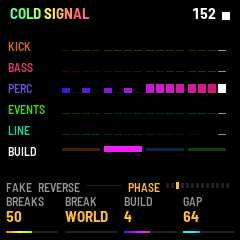
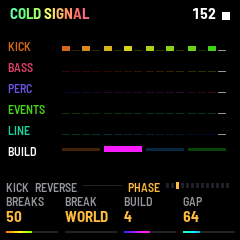
Builds: HALF, ACID, STAIRS, GATE (each world leaning on them its own way)

diff --git a/app/dsp/psy.c b/app/dsp/psy.c
@@ -49,7 +49,7 @@ typedef struct {
     uint8_t trip;                      /* % of phrases with a bar of sixteenth triplets (K-b-b-b-b-b): its 4th or 8th */
     uint8_t gallop, off;               /* % of phrases in a gallop, an offbeat */
     uint8_t bk[PS_NBUILD - 1];         /* the builds' leaning (AUTO): ROLL, KICK, FILTER, TRIPLET, STUTTER, POLY, SINK,
-                                        * FAKE, out of their sum */
+                                        * FAKE, HALF, ACID, STAIRS, GATE, out of their sum */
     uint8_t skip, jump;                /* % of notes resting (a stutter), jumping (an octave or a fifth up) */
     float ratio;                       /* the bass's modulator to carrier */
     float index, index_ms;             /* the modulation at the note's start, and how fast it falls (ms to 1/e) */
@@ -84,56 +84,56 @@ typedef struct {
 /* the eight worlds, slow and wet to fast and fine (notes/psytrance.md 6) */
 static const world_t W[PS_NWORLD] = {
     /* low and muffled, a soft stuttering bass, wet clicks, a thick murmur */
-    {.name = "SWAMP RADIO", .bpm = 145, .root = 29, .gallop = 20, .off = 15, .bk = {25, 15, 30, 5, 10, 5, 10, 10}, .skip = 9,
+    {.name = "SWAMP RADIO", .bpm = 145, .root = 29, .gallop = 20, .off = 15, .bk = {25, 15, 30, 5, 10, 5, 10, 10, 15, 15, 5, 5}, .skip = 9,
      .ratio = 1.0f, .index = 1.8f, .index_ms = 22, .floor = 0.2f, .gate = 0.82f, .drive = 1.1f, .kick_len = 1.0f, .kick_bright = 0.5f,
      .hat_ms = 18, .open_ms = 70, .hat_hp = 0.70f, .clap_hz = 900,
      .ev_density = 6, .ev_low = 35, .ev_mid = 45, .ev_runs = 10, .atmos = 0.8f, .brk = 16,
      .line = 0.1f, .line_dens = 0.25f, .line_oct = 24, .line_range = 7, .line_chrom = 30, .line_slide = 30,
      .line_ratio = 1.0f, .line_index = 1.5f, .line_ms = 60, .line_gate = 0.6f, .line_wah = 0.3f},
     /* deep and long, a thick low bass, a growl now and then, sinking sounds, a dark swell; long breaks */
-    {.name = "UNDER THE ROOTS", .bpm = 148, .root = 28, .gallop = 15, .off = 15, .bk = {25, 15, 30, 5, 10, 5, 10, 10},
+    {.name = "UNDER THE ROOTS", .bpm = 148, .root = 28, .gallop = 15, .off = 15, .bk = {25, 15, 30, 5, 10, 5, 10, 10, 15, 15, 5, 5},
      .ratio = 0.5f, .index = 2.6f, .index_ms = 18, .floor = 0.3f, .gate = 0.8f, .drive = 1.5f, .kick_len = 1.0f, .kick_bright = 0.7f,
      .hat_ms = 14, .open_ms = 60, .hat_hp = 0.78f, .clap_hz = 1000,
      .ev_density = 4, .ev_low = 55, .ev_mid = 30, .ev_runs = 10, .atmos = 0.55f, .brk = 24,
      .line = 0.35f, .line_dens = 0.3f, .line_oct = 12, .line_range = 5, .line_chrom = 50, .line_slide = 50,
      .line_ratio = 1.5f, .line_index = 3.0f, .line_ms = 120, .line_gate = 0.9f, .line_wah = 0.2f},
     /* cold dark psy: hard, short sixteenths, a short phrase creeping in semitones, lasers, a thin band of noise */
-    {.name = "COLD SIGNAL", .bpm = 152, .root = 30, .gallop = 15, .off = 10, .bk = {25, 25, 20, 5, 10, 10, 5, 10},
+    {.name = "COLD SIGNAL", .bpm = 152, .root = 30, .gallop = 15, .off = 10, .bk = {25, 25, 20, 5, 10, 10, 5, 10, 10, 10, 10, 10},
      .ratio = 1.0f, .index = 3.2f, .index_ms = 14, .floor = 0.35f, .gate = 0.72f, .drive = 1.6f, .kick_len = 0.95f, .kick_bright = 1.0f,
      .hat_ms = 14, .open_ms = 55, .hat_hp = 0.80f, .clap_hz = 1100,
      .ev_density = 5, .ev_low = 30, .ev_mid = 55, .ev_runs = 15, .atmos = 0.2f, .brk = 16,
      .line = 0.6f, .line_dens = 0.35f, .line_oct = 24, .line_range = 4, .line_chrom = 70, .line_slide = 10,
      .line_ratio = 3.0f, .line_index = 2.5f, .line_ms = 25, .line_gate = 0.45f},
     /* bouncing: the bass jumps now and then, a talking FM line, gurgles; sudden turns */
-    {.name = "RUBBER CIRCUS", .bpm = 156, .root = 31, .trip = 25, .gallop = 25, .off = 10, .bk = {20, 20, 15, 20, 10, 15, 5, 10}, .jump = 12,
+    {.name = "RUBBER CIRCUS", .bpm = 156, .root = 31, .trip = 25, .gallop = 25, .off = 10, .bk = {20, 20, 15, 20, 10, 15, 5, 10, 10, 15, 15, 10}, .jump = 12,
      .ratio = 1.0f, .index = 3.0f, .index_ms = 16, .floor = 0.3f, .gate = 0.6f, .drive = 1.4f, .kick_len = 0.9f, .kick_bright = 1.2f,
      .hat_ms = 12, .open_ms = 50, .hat_hp = 0.82f, .clap_hz = 1300,
      .ev_density = 7, .ev_low = 20, .ev_mid = 60, .ev_runs = 20, .atmos = 0.1f, .brk = 8,
      .line = 0.7f, .line_dens = 0.45f, .line_oct = 24, .line_range = 9, .line_chrom = 20, .line_slide = 35,
      .line_ratio = 1.0f, .line_index = 4.0f, .line_ms = 40, .line_gate = 0.6f, .line_wah = 0.8f},
     /* heavy, a distorted bass, a long dragging phrase, groans; big breaks */
-    {.name = "BLACK UNDERTOW", .bpm = 160, .root = 28, .gallop = 15, .off = 10, .bk = {25, 25, 20, 5, 10, 5, 10, 10},
+    {.name = "BLACK UNDERTOW", .bpm = 160, .root = 28, .gallop = 15, .off = 10, .bk = {25, 25, 20, 5, 10, 5, 10, 10, 15, 15, 5, 10},
      .ratio = 1.0f, .index = 3.6f, .index_ms = 20, .floor = 0.45f, .gate = 0.75f, .drive = 2.2f, .kick_len = 1.0f, .kick_bright = 1.1f,
      .hat_ms = 14, .open_ms = 55, .hat_hp = 0.78f, .clap_hz = 1000,
      .ev_density = 9, .ev_low = 50, .ev_mid = 35, .ev_runs = 15, .atmos = 0.25f, .brk = 16,
      .line = 0.6f, .line_dens = 0.25f, .line_oct = 12, .line_range = 6, .line_chrom = 50, .line_slide = 60,
      .line_ratio = 2.0f, .line_index = 3.5f, .line_ms = 200, .line_gate = 1.0f, .line_wah = 0.1f},
     /* tight, a short metallic repeat, the staircases begin; now and then a bar of triplets */
-    {.name = "COPPER NERVE", .bpm = 168, .root = 29, .trip = 40, .gallop = 15, .off = 5, .bk = {20, 20, 15, 20, 10, 15, 5, 10},
+    {.name = "COPPER NERVE", .bpm = 168, .root = 29, .trip = 40, .gallop = 15, .off = 5, .bk = {20, 20, 15, 20, 10, 15, 5, 10, 5, 15, 10, 15},
      .ratio = 2.0f, .index = 2.8f, .index_ms = 11, .floor = 0.3f, .gate = 0.72f, .drive = 1.5f, .kick_len = 0.93f, .kick_bright = 1.1f,
      .hat_ms = 11, .open_ms = 45, .hat_hp = 0.85f, .clap_hz = 1300, .ride = 1,
      .ev_density = 8, .ev_low = 20, .ev_mid = 45, .ev_runs = 30, .atmos = 0.1f, .brk = 8,
      .line = 0.7f, .line_dens = 0.4f, .line_oct = 36, .line_range = 5, .line_chrom = 30, .line_slide = 5,
      .line_ratio = 3.5f, .line_index = 2.5f, .line_ms = 18, .line_gate = 0.5f},
     /* bright hi-tech: clean sixteenths, a bright metallic lead, staircases flying left and right; short breaks */
-    {.name = "GLASS INSECTS", .bpm = 176, .root = 30, .gallop = 10, .off = 5, .bk = {20, 25, 10, 20, 15, 10, 5, 10},
+    {.name = "GLASS INSECTS", .bpm = 176, .root = 30, .gallop = 10, .off = 5, .bk = {20, 25, 10, 20, 15, 10, 5, 10, 5, 10, 15, 15},
      .ratio = 2.0f, .index = 2.4f, .index_ms = 9, .floor = 0.25f, .gate = 0.76f, .drive = 1.3f, .kick_len = 0.92f, .kick_bright = 1.2f,
      .hat_ms = 10, .open_ms = 40, .hat_hp = 0.88f, .clap_hz = 1500, .ride = 1,
      .ev_density = 9, .ev_low = 10, .ev_mid = 40, .ev_runs = 35, .atmos = 0.05f, .brk = 8,
      .line = 0.6f, .line_dens = 0.4f, .line_oct = 36, .line_range = 12, .line_slide = 15,
      .line_ratio = 2.0f, .line_index = 2.0f, .line_ms = 30, .line_gate = 0.6f},
     /* fast and fine: the detail in the line's fragments and the events, the densest; changing all the time */
-    {.name = "CHROME SWARM", .bpm = 186, .root = 31, .gallop = 5, .off = 5, .bk = {20, 25, 5, 20, 15, 10, 5, 10},
+    {.name = "CHROME SWARM", .bpm = 186, .root = 31, .gallop = 5, .off = 5, .bk = {20, 25, 5, 20, 15, 10, 5, 10, 5, 10, 15, 20},
      .ratio = 2.0f, .index = 2.2f, .index_ms = 8, .floor = 0.25f, .gate = 0.7f, .drive = 1.3f, .kick_len = 0.9f, .kick_bright = 1.3f,
      .hat_ms = 8, .open_ms = 35, .hat_hp = 0.90f, .clap_hz = 1700, .ride = 1,
      .ev_density = 14, .ev_low = 10, .ev_mid = 35, .ev_runs = 50, .brk = 4,
@@ -257,6 +257,7 @@ static struct {
     uint32_t sec_bar, sec_len;         /* bars into the section; a break's length (0: until cued), a build's */
     uint8_t bk;                        /* the build's kind (PS_BUILD_ROLL ..), taken as it begins */
     uint8_t be;                        /* its ending (PS_END_BREATH ..), taken so too */
+    int8_t lift;                       /* STAIRS: semitones the bass, the line, the atmos and the events go up (0 none) */
     float hp_hz, hp_b[2], hp_u[2][2];  /* FILTER's high-pass: its cutoff (glides; 0 none), the bass's, the upper's */
     float lp_g, lp_u[2][2];            /* SINK's low-pass over the upper: its share (glides), its states */
     uint32_t cue_seen, drop_seen, build_seen;
@@ -303,6 +304,7 @@ static struct {
     float k_cut, k_fade;               /* DECAY: under 50 the kick cut short after its drive (1/s, 0: none); over, its
                                         * end's fade held off (the power of t over its length, 1: straight) */
     float b_lp;                        /* the bass's low-pass (Dark) */
+    float acid;                        /* ACID: how far through it (0..1; 0 none): the bass's bite opening, staying */
     float b_idx_k;                     /* DECAY: how fast the bass's bite closes (1/s) */
     float b_floor;                     /* DECAY under 50: what stays of the bite, of the world's (1: all) */
     float b_len;                       /* LENGTH: its notes', of the world's */
@@ -634,7 +636,7 @@ const char *ps_end_name(int k)
 const char *ps_build_name(int k)
 {
     static const char *const N[PS_NBUILD] = {"AUTO", "ROLL", "KICK", "FILTER", "TRIPLET", "STUTTER", "POLY", "SINK",
-                                             "FAKE"};
+                                             "FAKE", "HALF", "ACID", "STAIRS", "GATE"};
     return N[(unsigned)k % PS_NBUILD];
 }
 void ps_octave(int o) { key_oct = o < -1 ? -1 : o > 2 ? 2 : o; }
@@ -708,6 +710,7 @@ static uint32_t roll_every(uint32_t pb);
 static int build_fake(void);
 static int build_grooves(void);
 static uint32_t poly_grid(uint32_t pb, uint32_t *st);
+static int half_build(void);
 static uint32_t bass_pat(uint32_t rb)  /* the shape of bar rb (the kit's over AUTO's while it lasts) */
 {
     return s.kit_bars ? s.kit_pat : rb % 8u == s.trip_at ? 2u : s.pat;
@@ -785,15 +788,20 @@ int ps_lane(int lane, uint8_t out[24])
         }
         if (groove || gro)
             for (i = 0; i < 16u; i++)
-                if ((fx.half ? i % 8u == 0u : kick_at(rb, i / 4u, (i % 4u) * 6u)) && !build_breath(i / 4u))
+                if ((fx.half || half_build() ? i % 8u == 0u : kick_at(rb, i / 4u, (i % 4u) * 6u)) && !build_breath(i / 4u))
                     out[i] = 3;   /* (HALF: on 1 and 3) */
         if (fake)
             out[0] = 3;
         break;
     case LANE_BASS:
+        if (build && s.bk == PS_BUILD_ACID) {   /* ACID: every sixteenth, every third an octave up */
+            for (i = 0; i < 16u; i++)
+                out[i] = build_breath(i / 4u) ? 0 : (s.sec_bar * 16u + i) % 3u == 2u ? 3 : 2;
+            break;
+        }
         if (!groove && !gro && !fake)
             break;
-        if (fx.half) {                 /* HALF: an eighth's roll after the kick on 1 and 3 */
+        if (fx.half || half_build()) {                 /* HALF: an eighth's roll after the kick on 1 and 3 */
             for (i = 0; i < 16u; i++)
                 out[i] = i % 8u && !(i & 1u) && !build_breath(i / 4u) ? 2 : 0;
             break;
@@ -824,6 +832,9 @@ int ps_lane(int lane, uint8_t out[24])
             out[4] = out[12] = 3;
             if (build_breath(3))
                 out[12] = 0;
+        } else if (build && s.bk == PS_BUILD_ACID) {   /* ACID: the hats on the offbeats */
+            for (i = 2; i < 16u; i += 4u)
+                out[i] = build_breath(i / 4u) ? 0 : 2;
         } else if (build && !gro) {    /* the roll (KICK's in the kick's lane) */
             if (s.bk != PS_BUILD_KICK)
                 n = lane_roll(out, 1u);
@@ -969,10 +980,14 @@ static int build_breath(uint32_t beat)   /* silent here: its ending's (BREATH, P
            (s.be != PS_END_ECHO || beat == 3u);
 }
 static int build_fake(void) { return s.sec == SEC_BUILD && s.bk == PS_BUILD_FAKE && s.sec_bar >= build_len(); }
-static int build_grooves(void)         /* the groove goes on through it (FILTER: by turns; STUTTER: repeated) */
+static int build_grooves(void)         /* the groove goes on through it (FILTER: by turns; STUTTER: repeated; HALF:
+                                        * in half time; STAIRS: rising; GATE: cut) */
 {
-    return s.sec == SEC_BUILD && (s.bk == PS_BUILD_FILTER || s.bk == PS_BUILD_STUTTER);
+    return s.sec == SEC_BUILD && (s.bk == PS_BUILD_FILTER || s.bk == PS_BUILD_STUTTER || s.bk == PS_BUILD_HALF ||
+                                  s.bk == PS_BUILD_STAIRS || s.bk == PS_BUILD_GATE);
 }
+static int half_build(void) { return s.sec == SEC_BUILD && s.bk == PS_BUILD_HALF; }
+static int acid_build(void) { return s.sec == SEC_BUILD && s.bk == PS_BUILD_ACID; }
 /* FILTER's parts come in by turns, not all at once: the kick from its start, the perc from its second quarter, the
  * bass (thinned by then) from its half */
 static int filter_in(int part, uint32_t beat)
@@ -1008,6 +1023,14 @@ static void build_step(uint32_t t, uint32_t beat)
     uint32_t len = build_len(), pb = s.sec_bar * 4u + beat;
     if (build_breath(beat))
         return;
+    if (s.bk == PS_BUILD_ACID) {       /* ACID: the hats on the offbeats, harder as it goes (the bass: step) */
+        if (t == 12u) {
+            s.h_t = 0.0f;
+            s.h_v = (0.5f + 0.5f * (float)pb / (float)(4u * len)) * (float)par[P_HATS] / 50.0f;
+            ps_ui.hits[HIT_PERC]++;
+        }
+        return;
+    }
     if (build_fake()) {
         if (beat == 0u) {
             if (t == 0u) {
@@ -1102,7 +1125,7 @@ static void perc_step(const world_t *w, uint32_t t, uint32_t beat, uint32_t bar,
         s.o_v = hats > 1.0f ? 1.0f : hats;
         ps_ui.hits[HIT_PERC]++;
     }
-    if (six == 0u && (beat == 1u || beat == 3u) && bar >= 16u && s.out != 3u) {
+    if (six == 0u && (half_build() ? beat == 2u : beat == 1u || beat == 3u) && bar >= 16u && s.out != 3u) {
         s.c_t = 0.0f;
         s.c_v = (float)par[P_CLAP] / 50.0f;
         ps_ui.hits[HIT_PERC]++;
@@ -1245,7 +1268,7 @@ static void bass_note(const world_t *w, uint32_t span)   /* the bass strikes, it
         if (s.b_gate > most)
             s.b_gate = most;
     }
-    s.b_inc = note_hz(m.root + (w->jump && rnd() % 100u < w->jump ? ((rnd() & 1u) ? 12 : 7) : 0)) / PS_SR;
+    s.b_inc = note_hz(m.root + s.lift + (w->jump && rnd() % 100u < w->jump ? ((rnd() & 1u) ? 12 : 7) : 0)) / PS_SR;
     ps_ui.hits[HIT_BASS]++;
 }
 
@@ -1260,6 +1283,18 @@ static void step(const world_t *w)     /* a tick begins: what strikes on it */
         static const uint8_t SL[4] = {24, 12, 6, 3};
         fx.auto_slice = s.sec == SEC_BUILD && s.bk == PS_BUILD_STUTTER && !build_breath(beat)
                       ? SL[clampi((int)((s.sec_bar * 4u + beat) / build_len()), 0, 3)] : 0u;
+    }
+    {   /* STAIRS: a minor third higher each quarter of it; GATE: all of it cut, quarters to 32nds (not under TAPE's
+         * or REVERSE's ending) */
+        static const uint8_t SL[4] = {24, 12, 6, 3};
+        uint32_t q = (uint32_t)clampi((int)((s.sec_bar * 4u + beat) / build_len()), 0, 3);
+        s.lift = (int8_t)(s.sec == SEC_BUILD && s.bk == PS_BUILD_STAIRS ? 3u * q : 0u);
+        fx.auto_gate = (uint8_t)(s.sec == SEC_BUILD && s.bk == PS_BUILD_GATE && !build_breath(beat) &&
+                                 !(build_end(beat) && (s.be == PS_END_TAPE || s.be == PS_END_REVERSE)) ? SL[q] : 0u);
+        if (fx.auto_gate && s.tick % fx.auto_gate == 0u) {
+            fx.ag_el = 0.0f;           /* (a slice begins) */
+            fx.ag_len = fx.auto_gate;
+        }
     }
     /* the ending's: TAPE, REVERSE the buffer's (from its first beat's tick); ECHO thrown into the echo, as DUB */
     fx.auto_buf = (uint8_t)(!build_end(beat) ? 0 : s.be == PS_END_TAPE ? FX_TAPE : s.be == PS_END_REVERSE ? FX_REVERSE : 0);
@@ -1320,7 +1355,16 @@ static void step(const world_t *w)     /* a tick begins: what strikes on it */
         bass_note(w, 6u);
         return;
     }
-    if (fx.half) {                     /* HALF (a black key held): half time, the kick on 1 and 3, the bass's roll over
+    if (acid_build()) {                /* ACID: the bass alone, every sixteenth, an octave up every third (its breath:
+                                        * none) */
+        if (t % 6u == 0u && !build_breath(beat)) {
+            bass_note(w, 6u);
+            if ((s.sec_bar * 16u + beat * 4u + t / 6u) % 3u == 2u)
+                s.b_inc *= 2.0f;
+        }
+        return;
+    }
+    if (fx.half || half_build()) {     /* HALF (a black key held, or a build): half time, the kick on 1 and 3, the bass's roll over
                                         * two beats (K-B-B-B, an eighth each); the kick's twists not */
         uint32_t ht = (beat & 1u) * TPB + t;
         if (ht == 0u) {
@@ -1435,8 +1479,9 @@ static float bass(const world_t *w, float dt)
         }
     }
     idx = w->index * bite * (1.0f - 0.5f * depth + depth * s.drift);   /* the slow movement opens and closes it */
-    idx = idx * fm_expf(-t * cf.b_idx_k * COLOUR[s.type[PART_BASS]][2]) + w->floor * bite * cf.b_floor;   /* (DECAY: how
-                                                                                                      * fast it closes) */
+    idx = idx * fm_expf(-t * cf.b_idx_k * COLOUR[s.type[PART_BASS]][2] * (1.0f - 0.8f * cf.acid)) +
+          w->floor * bite * cf.b_floor;   /* (DECAY: how fast it closes; ACID: slower, staying open) */
+    idx *= 1.0f + 2.5f * cf.acid;      /* (ACID: opening, screaming) */
     mo = fm_sin_turns(s.b_mph);
     x = fm_sin_turns(s.b_cph + idx * mo * 0.159155f) * env;
     {
@@ -1452,8 +1497,8 @@ static float bass(const world_t *w, float dt)
         s.b_mph -= 1.0f;
     if (s.b_t >= 0.0f)
         s.b_t = t + dt;
-    x = fm_tanhf(x * w->drive * (0.5f + (float)par[P_BASS_DRIVE] / 100.0f));
-    s.lp += (x - s.lp) * cf.b_lp;      /* (Dark: darker) */
+    x = fm_tanhf(x * w->drive * (0.5f + (float)par[P_BASS_DRIVE] / 100.0f) * (1.0f + 1.5f * cf.acid));
+    s.lp += (x - s.lp) * (cf.b_lp + (1.0f - cf.b_lp) * cf.acid);   /* (Dark: darker; ACID: opening) */
     return s.lp;
 }
 
@@ -1718,7 +1763,8 @@ static void coefs(const world_t *w)    /* as a block begins: what changes slowly
     cf.lp_f = 2.0f * fm_sinf(3.14159265f * 6000.0f * fm_exp2f(-4.3f * bp) / PS_SR);   /* SINK: 6 kHz down to ~300 Hz */
     cf.air_f = 2.0f * fm_sinf(3.14159265f * (1200.0f + 900.0f * fm_sin_turns(s.a_lfo) + 1500.0f * colour) / PS_SR);
     for (i = 0; i < 3; i++)
-        cf.a_inc[i] = note_hz(m.root + IV[m.dark > 0.3f][i]) / PS_SR;
+        cf.a_inc[i] = note_hz(m.root + s.lift + IV[m.dark > 0.3f][i]) / PS_SR;
+    cf.acid = acid_build() ? bp : 0.0f;
     {   /* the kick's DECAY: its body x0.4 .. x2.5; under 50 cut short after its drive too (its drive flattens the body:
          * the cut is heard), over 50 its end's fade held off (fuller to the bass) */
         float d = (float)(par[P_KICK_DECAY] - 50) / 50.0f;
@@ -1809,7 +1855,7 @@ void ps_render(float *outl, float *outr, uint32_t n)
     }
     tempo(w);
     if (!playing) {                    /* resting: no STUTTER's repeat going on */
-        fx.auto_slice = fx.auto_buf = fx.auto_dub = 0;
+        fx.auto_slice = fx.auto_buf = fx.auto_dub = fx.auto_gate = 0;
         if (fx.cur.id == FX_AUTO || (fx.cur.id >= 0 && fx.buf_want < 0))
             fx.buf_on = 0;
     }

diff --git a/app/dsp/fx.c b/app/dsp/fx.c
@@ -75,6 +75,8 @@ static struct {
     uint8_t auto_slice;                /* a STUTTER build's repeat, ticks (0: none): psy.c sets it a tick */
     uint8_t auto_buf;                  /* a build's ending's buffer effect, FX_TAPE or FX_REVERSE (0: none): so too */
     uint8_t auto_dub;                  /* a build's ending thrown into the echo, as DUB held: so too */
+    uint8_t auto_gate, ag_len;         /* a GATE build's slice, ticks (0: none): so too; the latest's */
+    float ag_el, ag_g, ag_s;           /* frames since its slice began (psy.c: 0 as it does), its depth, the cut heard */
 } fx = {.buf_want = -1, .cur = {.id = -1}, .old = {.id = -1}};
 
 /* the read: frame position p (a count, fractional), channel ch, between two samples */
@@ -306,6 +308,14 @@ static float fx_render(float tick_len, float *l, float *r, float upper_l, float 
         dl -= cut * (dl - (1.0f - fx.wet) * (*l - upper_l));   /* (*l: the music as it came; less its upper, the kick
                                                                  * and the bass, untouched unless replayed) */
         dr -= cut * (dr - (1.0f - fx.wet) * (*r - upper_r));
+    }
+    /* a GATE build's: all of it, open the first half of each slice; ~0.75 ms slopes */
+    fx.ag_g += ((fx.auto_gate ? 1.0f : 0.0f) - fx.ag_g) * 0.003f;
+    fx.ag_el += 1.0f;
+    if (fx.ag_g > 0.0005f) {
+        fx.ag_s += ((fx.ag_el < tick_len * 0.5f * (float)fx.ag_len ? 0.0f : 1.0f) - fx.ag_s) * 0.03f;
+        dl *= 1.0f - fx.ag_g * fx.ag_s;
+        dr *= 1.0f - fx.ag_g * fx.ag_s;
     }
     /* WASH and FREEZE (its taking in is psy.c's): what is above the kick and the bass sinking beneath the hall, the
      * echo (~10 ms down, ~40 ms back; a buffer's replay, all of it, stays) */

diff --git a/app/dsp/psy.h b/app/dsp/psy.h
@@ -75,10 +75,13 @@ enum { PS_CUE_BREAK = 1, PS_CUE_DROP, PS_CUE_BUILD };
  * sixteenth triplets, rising), STUTTER (the groove on, repeated: a quarter of it, an eighth, a sixteenth, a 32nd),
  * POLY (the kick on dotted eighths against the bar, closing to dotted sixteenths, then sixteenths; the clap on 2 and
  * 4), SINK (the other way: a clap rolling sixteenths, eighths, quarters, falling, the rest closing from above, the
- * riser falling), FAKE (a ROLL, then a drop for a beat, cut short: a bar of the clap's sixteenths, then the drop).
- * Each its riser. Taken as the build begins. */
+ * riser falling), FAKE (a ROLL, then a drop for a beat, cut short: a bar of the clap's sixteenths, then the drop),
+ * HALF (the groove in half time: the kick on 1 and 3, the clap on 3), ACID (the kick out, the bass alone on every
+ * sixteenth, an octave up every third, its bite opening and screaming, the hats on the offbeats), STAIRS (the groove
+ * on, the bass, the line, the atmos a minor third higher each quarter of it), GATE (the groove on, all of it cut:
+ * quarters, eighths, sixteenths, 32nds, the first half of each heard). Each its riser. Taken as the build begins. */
 enum { PS_BUILD_AUTO, PS_BUILD_ROLL, PS_BUILD_KICK, PS_BUILD_FILTER, PS_BUILD_TRIP, PS_BUILD_STUTTER, PS_BUILD_POLY,
-       PS_BUILD_SINK, PS_BUILD_FAKE, PS_NBUILD };
+       PS_BUILD_SINK, PS_BUILD_FAKE, PS_BUILD_HALF, PS_BUILD_ACID, PS_BUILD_STAIRS, PS_BUILD_GATE, PS_NBUILD };
 void ps_build_kind(int k);
 /* a build's ending (ALGORITHM on PHASE with SEQ held; AUTO: each build one of them, not the last one again), its
  * last bar (FAKE: before its false drop): BREATH (its last beat silent), RUSH (none: the roll twice as fast through its

diff --git a/app/dsp/events.c b/app/dsp/events.c
@@ -408,7 +408,7 @@ static recipe_t ev_resolve(const world_t *w, uint32_t i)   /* what slot i plays 
     r.type = (uint8_t)((sl->fam < low ? EV_DIVE : sl->fam < low + mid ? EV_ZAP : EV_CHIRP) + sl->sub);
     if ((float)sl->lean < 60.0f * (dk < 0.0f ? -dk : dk))         /* Dark leans the note one way or the other */
         deg = dk < 0.0f ? OPEN[sl->deg % 4u] : SHADE[sl->deg % 4u];
-    r.note = (int8_t)(m.root + 36 + deg + (r.type >= EV_CHIRP ? 12 : r.type <= EV_GROWL ? -12 : 0));
+    r.note = (int8_t)(m.root + s.lift + 36 + deg + (r.type >= EV_CHIRP ? 12 : r.type <= EV_GROWL ? -12 : 0));
     r.run = sl->run < (uint32_t)ev_runs_now(w) ? (r.type <= EV_GROWL ? RUN_ROLL : RUN_STAIRS) : RUN_ONE;
     r.var = sl->var;
     r.snd = r.cyc = 0;

diff --git a/app/dsp/line.c b/app/dsp/line.c
@@ -145,7 +145,7 @@ static void ln_step(const world_t *w, uint32_t t, uint32_t bar, uint32_t rb, uin
     if (!ln.playing || !ln_on(w, i) || build_breath(s.tick / TPB % 4u))
         return;
     {
-        float f = note_hz(m.root + w->line_oct + ln_note(w, i)) / PS_SR;
+        float f = note_hz(m.root + s.lift + w->line_oct + ln_note(w, i)) / PS_SR;
         int sounding = ln.t >= 0.0f, glide = ln_slide(w, (i + LN_STEPS - 1u) % LN_STEPS) && sounding;
         float bite = (float)par[P_LINE_BITE] / 50.0f, d = (float)par[P_LINE_DECAY],   /* (50: the world's, as it was) */
               ms = w->line_ms * (d >= 50.0f ? 1.0f + (d - 50.0f) / 12.5f : 0.25f + 0.75f * d / 50.0f);   /* x0.25 .. x5 */

diff --git a/app/docs/MANUAL.md b/app/docs/MANUAL.md
@@ -215,6 +215,11 @@ same one twice running; in a build, the rule shows the one it chose in its place
   and 4.
 - SINK: the other way: a clap rolling sixteenths, eighths, quarters, slowing and falling, the rest closing from above.
 - FAKE: a ROLL, then a drop for a beat that is cut short, then a bar of the clap's sixteenths before the real drop.
+- HALF: the groove drops to half time, the kick on 1 and 3 and the clap on 3, and the drop snaps back to full speed.
+- ACID: the kick drops out and the bass plays alone on every sixteenth, an octave up on every third, its bite opening
+  wider and wider until it screams. The hats tick on the offbeats.
+- STAIRS: the groove goes on, and the bass, the line and the atmosphere climb a minor third at each quarter of the build.
+- GATE: the groove goes on, chopped: quarters, then eighths, sixteenths and 32nds, only the first half of each heard.
 
 Every build has its riser. Hold SEQ and turn ALGORITHM to pick how builds end: what happens in the last bar (in FAKE,
 the bar before its short drop). AUTO chooses one of the others each time, never the same one twice running. The rule
@@ -549,7 +554,7 @@ their own. How likely it is depends on BREAKS and DRIFT together: at the default
 
 ![In the break: the lanes nearly bare, BREAK under them](img/screen-break.png "In the break")
 
-![In a build, on the PHASE page: BUILD under the lanes, FAKE and REVERSE in grey at the left of the rule: the kind and the ending AUTO chose](img/screen-build.png "In a build")
+![In a build, on the PHASE page: BUILD under the lanes, KICK and REVERSE in grey at the left of the rule: the kind and the ending AUTO chose](img/screen-build.png "In a build")
 
 ---
 
